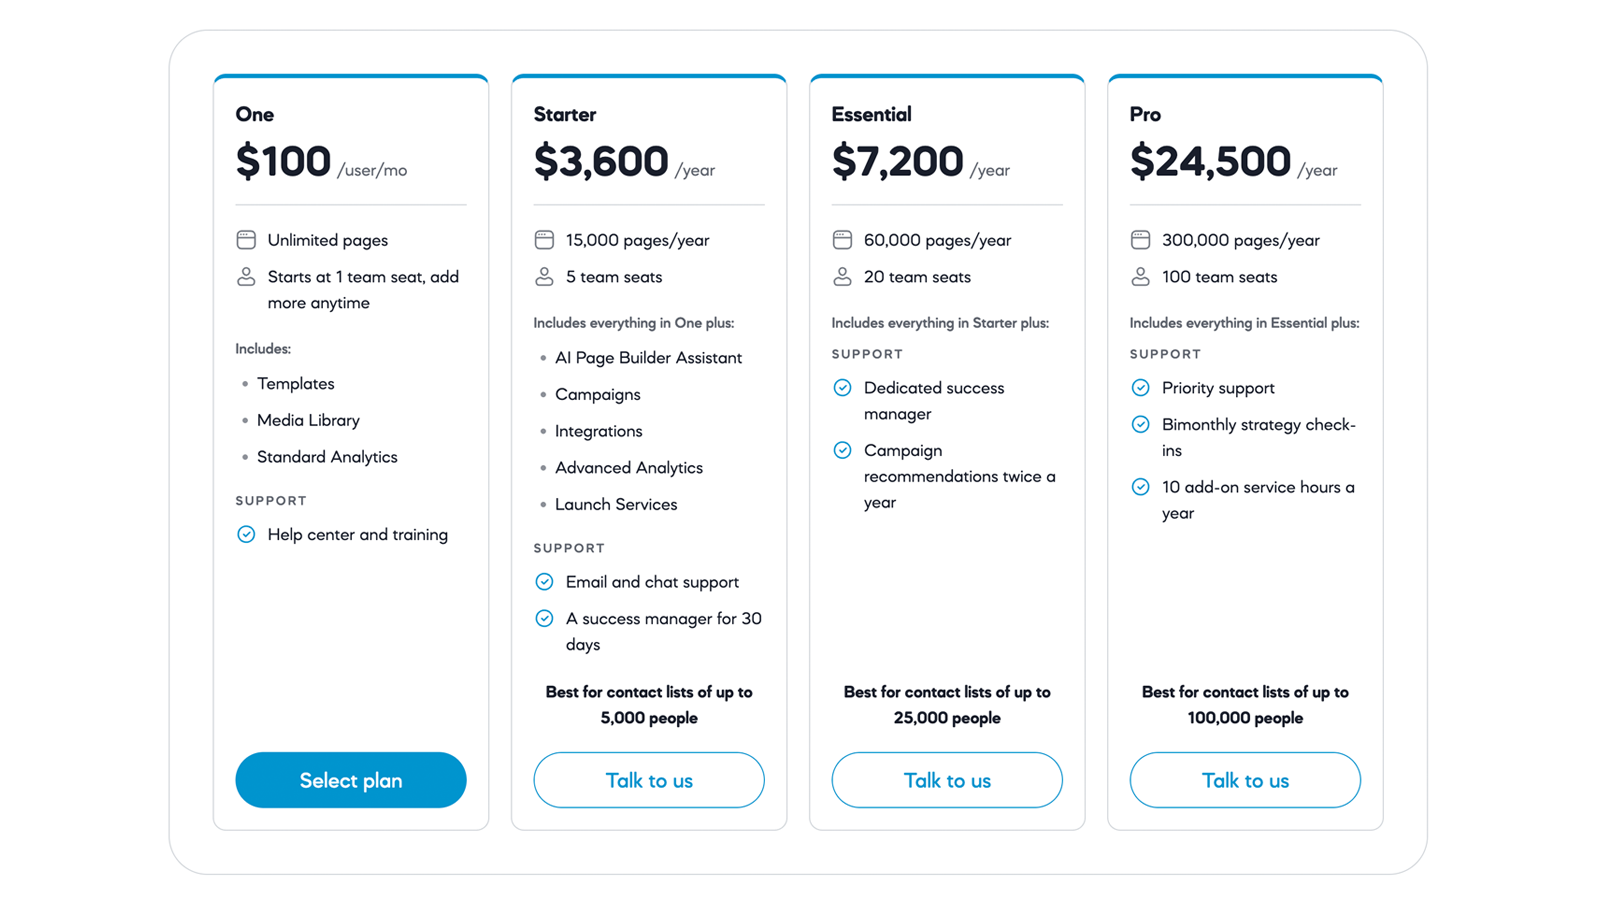
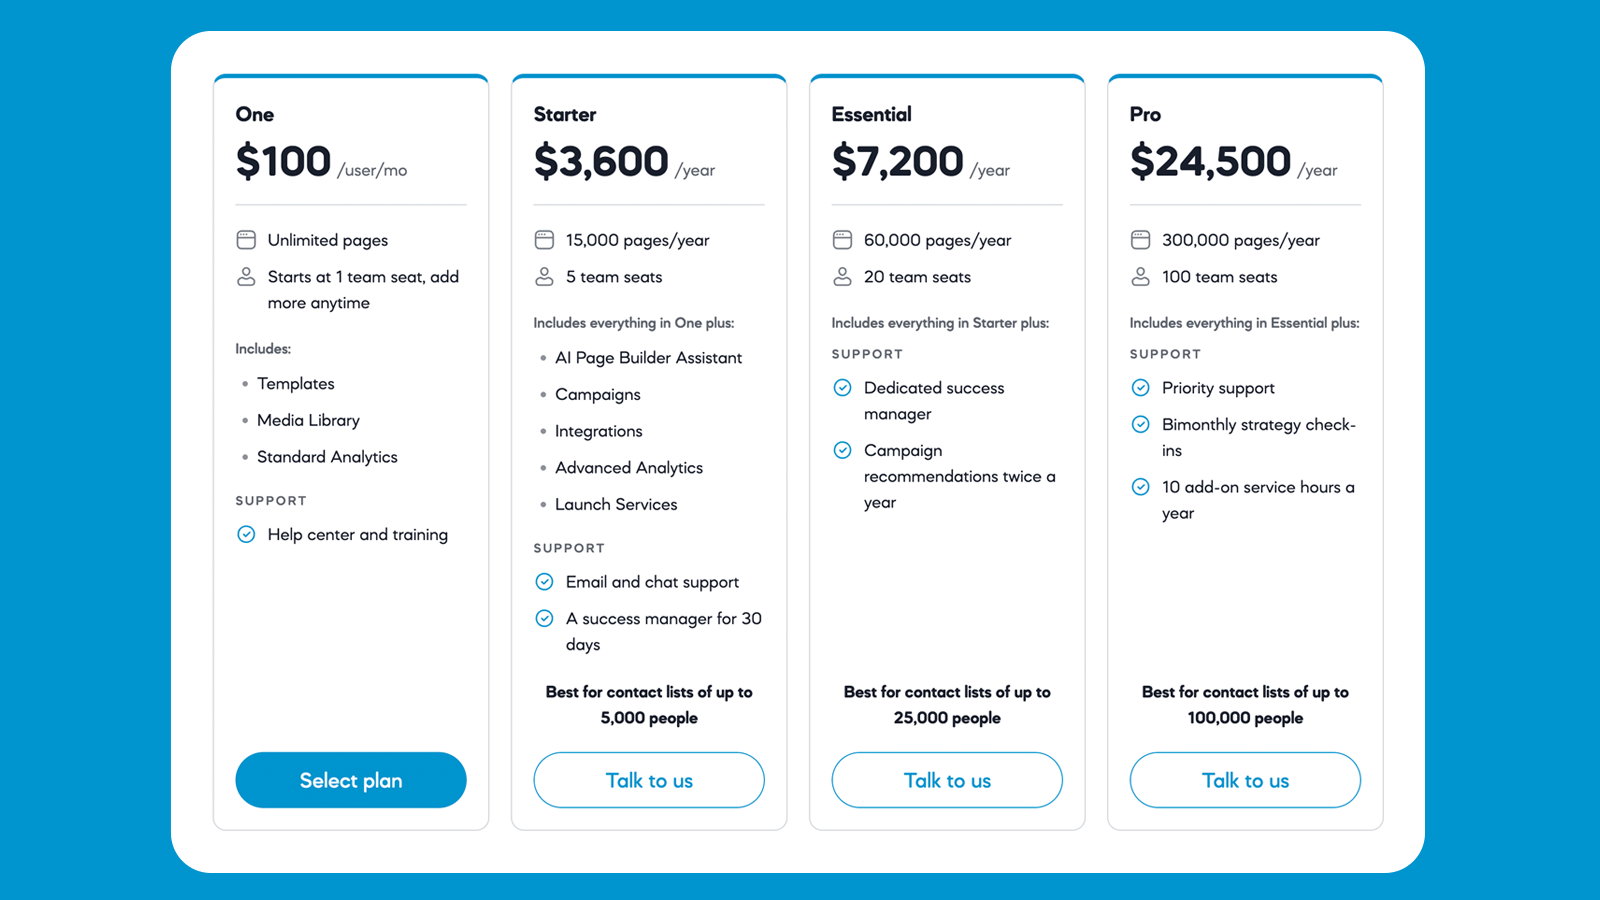
Put the 2.21.0 cover on a blue background and list the open release checks

Changed region(s): [[0.0, 0.0, 1.0, 1.0]]

diff --git a/TODO.md b/TODO.md
@@ -1,3 +1,6 @@
 # To do
 
-- [ ] TBD
+- [ ] Add the remaining Spokenote One details to the 2.21.0 release notes
+- [ ] Confirm we have the rights to the delete-key keyboard photo in the 2.21.0 editor carousel
+- [ ] Confirm the plan prices on the 2.21.0 cover image are meant to be public
+- [ ] Shrink the 2.21.0 screenshots (about 20 MB in total, all 2000×2000)
